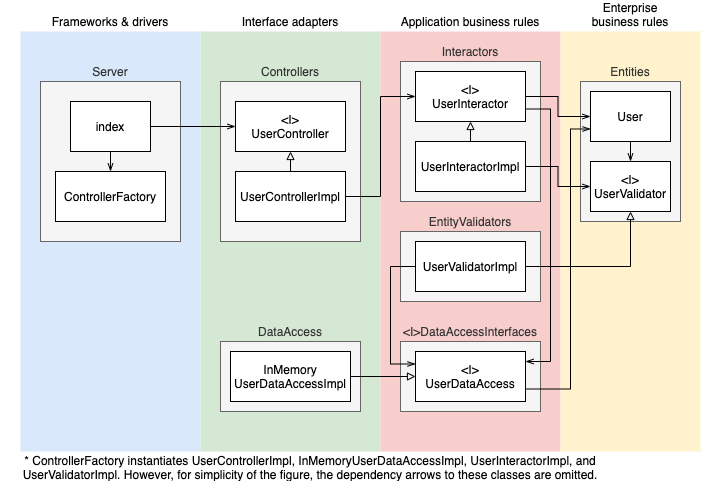
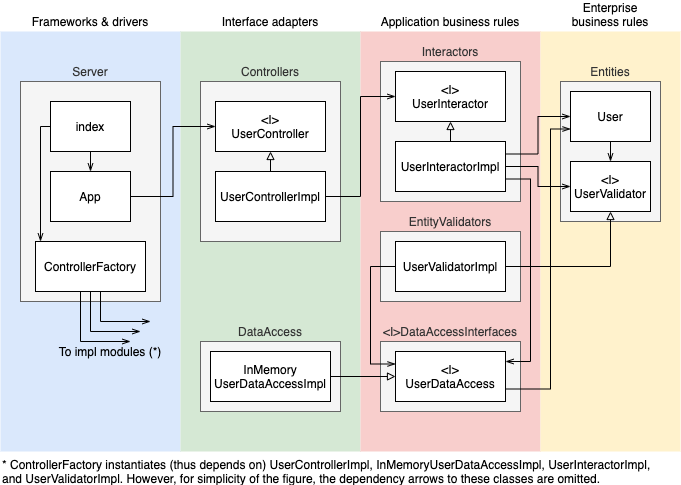
add e2e tests and refactor server component

diff --git a/src/__tests__/server/app.ts b/src/__tests__/server/app.ts
@@ -1,0 +1,126 @@
+import express from 'express';
+import { User } from 'src/entities/user';
+import { App } from 'src/server/app';
+import { ControllerFactory } from 'src/server/controllerFactory';
+import request from 'supertest';
+
+describe('e2e test for express app', () => {
+  let app: express.Application;
+  // initial user of server
+  const initialUser = new User(
+    '931378e7-976b-4e36-87e9-cdfe9a5b85ce',
+    'initial-user'
+  );
+  type userParams = { id: string; name: string };
+
+  beforeEach(() => {
+    // make controller with in-memory database and initial user
+    const factory = new ControllerFactory();
+    const controller = factory.makeInMemoryUserController([initialUser]);
+
+    // server start
+    app = new App(controller).app;
+  });
+
+  describe('create user', () => {
+    it('create user', async () => {
+      const createRes = await request(app)
+        .post('/users')
+        .send({ name: 'name' });
+      const listRes = await request(app).get('/users');
+      expect(createRes.status).toBe(201);
+      expect((listRes.body as userParams[]).length).toBe(2);
+    });
+
+    it('cannot create user with non-unique name', async () => {
+      const createRes = await request(app)
+        .post('/users')
+        .send({ name: initialUser.name });
+      const listRes = await request(app).get('/users');
+      expect(createRes.status).toBe(409);
+      expect((listRes.body as userParams[]).length).toBe(1);
+    });
+
+    it('cannot create user with empty name', async () => {
+      const createRes = await request(app).post('/users').send({ name: '' });
+      const listRes = await request(app).get('/users');
+      expect(createRes.status).toBe(400);
+      expect((listRes.body as userParams[]).length).toBe(1);
+    });
+  });
+
+  describe('list all users', () => {
+    it('list all users', async () => {
+      const res = await request(app).get('/users');
+      const users = res.body as userParams[];
+      expect(res.status).toBe(200);
+      expect(users.length).toBe(1);
+      expect(users[0].id).toBe(initialUser.id);
+      expect(users[0].name).toBe(initialUser.name);
+    });
+  });
+
+  describe('find user by ID', () => {
+    it('find user by ID', async () => {
+      const res = await request(app).get(`/users/${initialUser.id}`);
+      const user = res.body as userParams;
+      expect(res.status).toBe(200);
+      expect(user.name).toBe(initialUser.name);
+      expect(user.id).toBe(initialUser.id);
+    });
+
+    it('cannot find user by non-existing ID', async () => {
+      const res = await request(app).get(`/users/non-existing`);
+      expect(res.status).toBe(404);
+    });
+  });
+
+  describe('update user', () => {
+    it('update user', async () => {
+      const updateRes = await request(app)
+        .put(`/users/${initialUser.id}`)
+        .send({ name: 'updated-name' });
+      const listRes = await request(app).get('/users');
+      const users = listRes.body as userParams[];
+      expect(updateRes.status).toBe(204);
+      expect(users.length).toBe(1);
+      expect(users[0].id).toBe(initialUser.id);
+      expect(users[0].name).toBe('updated-name');
+    });
+
+    it('cannot update user with non-existing ID', async () => {
+      const res = await request(app).get(`/users/non-existing`);
+      expect(res.status).toBe(404);
+    });
+
+    it('cannot update user with empty name', async () => {
+      const updateRes = await request(app)
+        .put(`/users/${initialUser.id}`)
+        .send({ name: '' });
+      const listRes = await request(app).get('/users');
+      const users = listRes.body as userParams[];
+      expect(updateRes.status).toBe(400);
+      expect(users.length).toBe(1);
+      expect(users[0].id).toBe(initialUser.id);
+      expect(users[0].name).toBe(initialUser.name);
+    });
+  });
+
+  describe('delete user', () => {
+    it('delete', async () => {
+      const deleteRes = await request(app).delete(`/users/${initialUser.id}`);
+      const listRes = await request(app).get('/users');
+      const users = listRes.body as userParams[];
+      expect(deleteRes.status).toBe(204);
+      expect(users.length).toBe(0);
+    });
+
+    it('cannot delete user with non-existing ID', async () => {
+      const deleteRes = await request(app).delete('/users/non-existing');
+      const listRes = await request(app).get('/users');
+      const users = listRes.body as userParams[];
+      expect(deleteRes.status).toBe(404);
+      expect(users.length).toBe(1);
+    });
+  });
+});

diff --git a/src/server/app.ts b/src/server/app.ts
@@ -1,0 +1,67 @@
+// to enable async handler in express, partially disable eslint
+/* eslint-disable @typescript-eslint/no-misused-promises */
+
+import { Server } from 'http';
+
+import express from 'express';
+import { UserController } from 'src/controllers/interfaces/userController';
+import { Request } from 'src/controllers/types/request';
+
+export class App {
+  private readonly _app: express.Application;
+
+  public get app(): express.Application {
+    return this._app;
+  }
+
+  constructor(controller: UserController) {
+    this._app = this.buildApp(controller);
+  }
+
+  public listen(port: number, callback: (() => void) | undefined): Server {
+    return this._app.listen(port, callback);
+  }
+
+  private buildApp(controller: UserController): express.Application {
+    const app = express();
+    app.use(express.json());
+    app.use(express.urlencoded({ extended: true }));
+
+    // define routings
+    app.post('/users', async (req: express.Request, res: express.Response) => {
+      const response = await controller.createUser(req as Request);
+      res.status(response.status).json(response.body);
+    });
+
+    app.get('/users', async (req: express.Request, res: express.Response) => {
+      const response = await controller.listAllUsers(req as Request);
+      res.status(response.status).json(response.body);
+    });
+
+    app.get(
+      '/users/:id',
+      async (req: express.Request, res: express.Response) => {
+        const response = await controller.findUserById(req as Request);
+        res.status(response.status).json(response.body);
+      }
+    );
+
+    app.put(
+      '/users/:id',
+      async (req: express.Request, res: express.Response) => {
+        const response = await controller.updateUser(req as Request);
+        res.status(response.status).json(response.body);
+      }
+    );
+
+    app.delete(
+      '/users/:id',
+      async (req: express.Request, res: express.Response) => {
+        const response = await controller.deleteUser(req as Request);
+        res.status(response.status).json(response.body);
+      }
+    );
+
+    return app;
+  }
+}

diff --git a/src/server/index.ts b/src/server/index.ts
@@ -1,53 +1,19 @@
-// to enable async handler in express, partially disable eslint
-/* eslint-disable @typescript-eslint/no-misused-promises */
-
-import express from 'express';
-import { Request } from 'src/controllers/types/request';
 import { User } from 'src/entities/user';
 
+import { App } from './app';
 import { ControllerFactory } from './controllerFactory';
+
+// initial user of server
+const initialUser = new User(
+  '931378e7-976b-4e36-87e9-cdfe9a5b85ce',
+  'initial-user'
+);
 
 // make controller with in-memory database and initial user
 const factory = new ControllerFactory();
-const controller = factory.makeInMemoryUserController([
-  new User('931378e7-976b-4e36-87e9-cdfe9a5b85ce', 'initial-user'),
-]);
-
-// prepare express
-const app = express();
-app.use(express.json());
-app.use(express.urlencoded({ extended: true }));
-
-// define routings
-app.post('/users', async (req: express.Request, res: express.Response) => {
-  const response = await controller.createUser(req as Request);
-  res.status(response.status).json(response.body);
-});
-
-app.get('/users', async (req: express.Request, res: express.Response) => {
-  const response = await controller.listAllUsers(req as Request);
-  res.status(response.status).json(response.body);
-});
-
-app.get('/users/:id', async (req: express.Request, res: express.Response) => {
-  const response = await controller.findUserById(req as Request);
-  res.status(response.status).json(response.body);
-});
-
-app.put('/users/:id', async (req: express.Request, res: express.Response) => {
-  const response = await controller.updateUser(req as Request);
-  res.status(response.status).json(response.body);
-});
-
-app.delete(
-  '/users/:id',
-  async (req: express.Request, res: express.Response) => {
-    const response = await controller.deleteUser(req as Request);
-    res.status(response.status).json(response.body);
-  }
-);
+const controller = factory.makeInMemoryUserController([initialUser]);
 
 // server start
-app.listen(8000, () => {
+new App(controller).listen(8000, () => {
   console.log('server started');
 });
